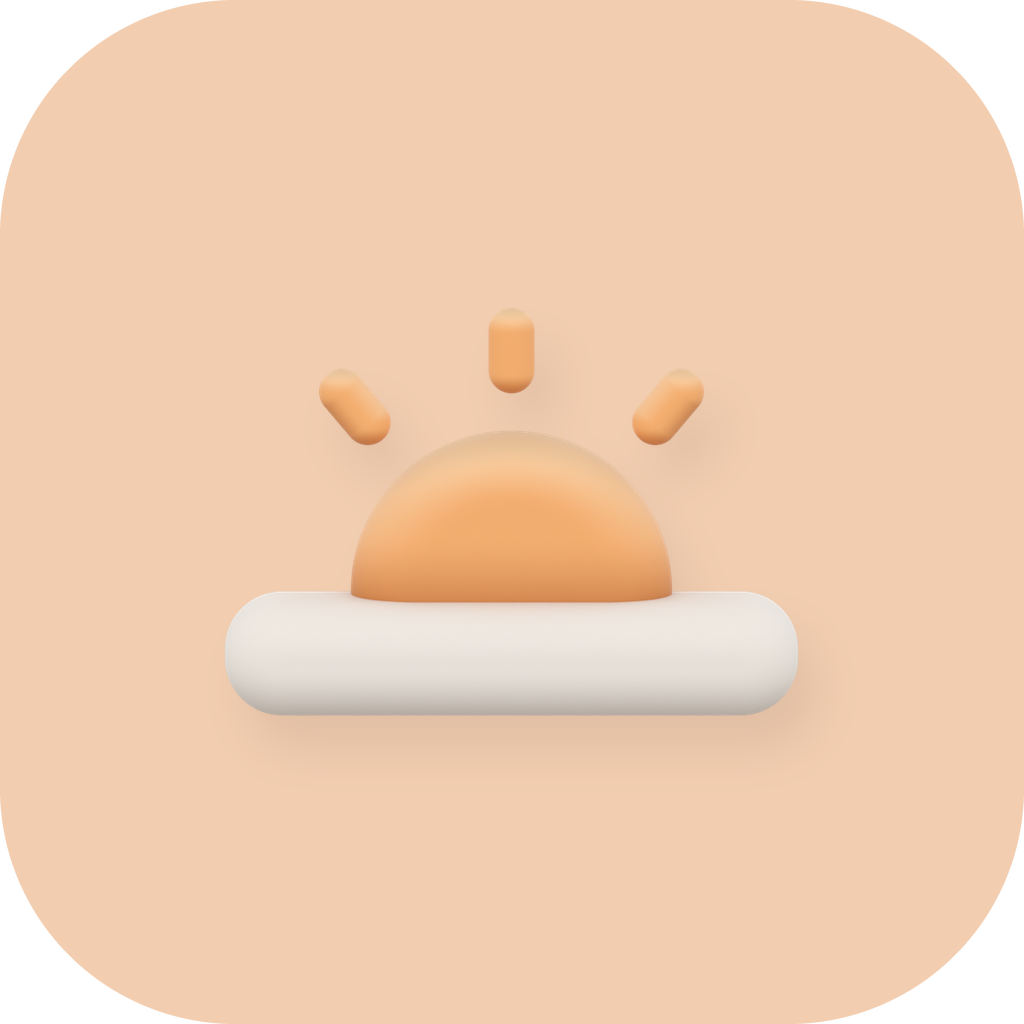
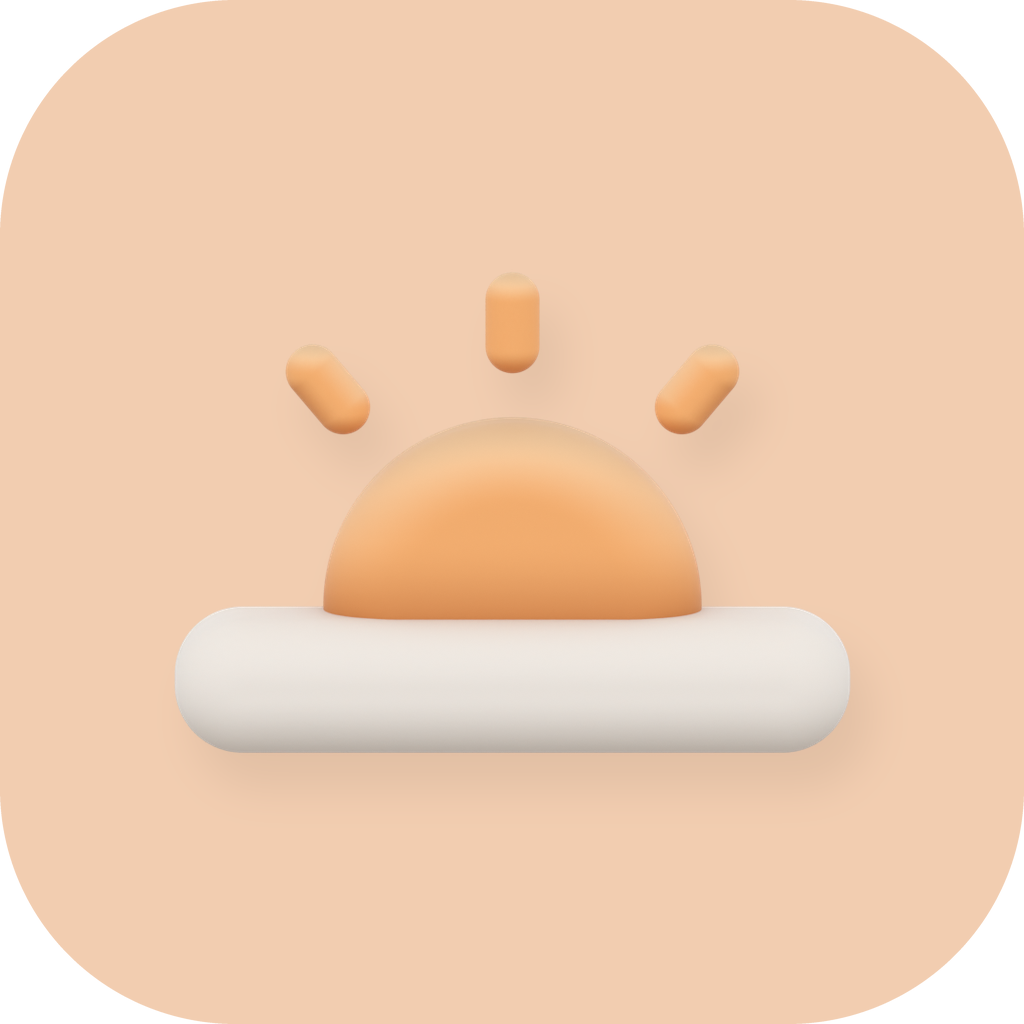
Cloud intro round 20b: panel footer stays visible, values line wraps cleanly

diff --git a/intro-storyboards/cloud/index.html b/intro-storyboards/cloud/index.html
@@ -58,13 +58,14 @@ body{overflow-x:hidden}
   .prow{margin-top:4px;}
   .prow input{height:24px;}
   .prow .rs{width:28px;height:28px;}
-  .pbtns{margin-top:8px;}
+  .pfoot{position:sticky;bottom:0;background:var(--page);padding-top:8px;}
+  .pfoot .pbtns{margin-top:0;}
 }
 @supports (height:100dvh){ @media (min-width: 820px){
   .col{grid-template-columns:min(430px, calc((100dvh - 96px) * 390 / 844)) clamp(340px, 30vw, 420px);}
 } }
 .pline{margin-top:8px;padding:8px;border:1px solid var(--btnline);border-radius:8px;background:var(--btn);
-  font-family:ui-monospace,Menlo,monospace;font-size:11px;word-break:break-all;user-select:all;-webkit-user-select:all}
+  font-family:ui-monospace,Menlo,monospace;font-size:11px;overflow-wrap:anywhere;user-select:all;-webkit-user-select:all}
 </style>
 
 <div class="wrap">
@@ -88,11 +89,13 @@ body{overflow-x:hidden}
     <details class="panel" id="panel" open>
       <summary>Regler</summary>
       <div id="prows"></div>
+      <div class="pfoot">
       <div class="pbtns">
         <button class="btn" id="pReset">Alle zur&uuml;cksetzen</button>
         <button class="btn" id="pCopy">Werte kopieren</button>
       </div>
       <div class="pline" id="pLine">alles Standard</div>
+      </div>
     </details>
     </div>
   </div>
@@ -1097,7 +1100,7 @@ window.addEventListener('resize', resize);
 
 // ---------------------------------------------------------------- playback + controls
 var cur = 0, playing = false, t0wall = 0, raf = 0, resumeOnShow = false;
-// slow motion: the clock advances by wall time × speed (render, seek and the time display stay in film time)
+// slow motion: the clock advances by wall time x speed (render, seek and the time display stay in film time)
 var SPEEDS = [1, 0.5, 0.25, 0.1], speedK = 0, speed = 1, curAnchor = 0, speedBtn = document.getElementById('speed');
 function anchor(){ t0wall = performance.now(); curAnchor = cur; }
 var playBtn = document.getElementById('play'), playIcon = document.getElementById('playIcon'),
@@ -1154,8 +1157,8 @@ function pLine(){
 function pShow(){
   PDEF.forEach(function(d){
     var k = d[0], txt = P[k].toFixed(pDec(d[4]));
-    if (k === 'riseAcc' && Math.abs(RC.accEff - P.riseAcc) > 0.005) txt += ' (→' + RC.accEff.toFixed(2) + ')';
-    if (k === 'riseVmax' && Math.abs(RC.vEff - P.riseVmax) > 0.005) txt += ' (→' + RC.vEff.toFixed(2) + ')';
+    if (k === 'riseAcc' && Math.abs(RC.accEff - P.riseAcc) > 0.005) txt += ' (\u2192' + RC.accEff.toFixed(2) + ')';
+    if (k === 'riseVmax' && Math.abs(RC.vEff - P.riseVmax) > 0.005) txt += ' (\u2192' + RC.vEff.toFixed(2) + ')';
     if (pVals[k]) pVals[k].textContent = txt;
     if (pInputs[k] && parseFloat(pInputs[k].value) !== P[k]) pInputs[k].value = String(P[k]);
   });
@@ -1182,7 +1185,7 @@ function setParams(obj){
     var val = document.createElement('span'); val.className = 'val';
     var inp = document.createElement('input'); inp.type = 'range'; inp.id = 'p_' + d[0];
     inp.min = String(d[2]); inp.max = String(d[3]); inp.step = String(d[4]); inp.value = String(d[5]);
-    var rs = document.createElement('button'); rs.className = 'btn rs'; rs.textContent = '↺'; rs.setAttribute('aria-label', d[1] + ' zurücksetzen');
+    var rs = document.createElement('button'); rs.className = 'btn rs'; rs.textContent = '\u21ba'; rs.setAttribute('aria-label', d[1] + ' zur\u00fccksetzen');
     inp.addEventListener('input', function(){ P[d[0]] = parseFloat(inp.value); pApply(); });
     rs.addEventListener('click', function(){ P[d[0]] = d[5]; pApply(); });
     row.appendChild(lab); row.appendChild(val); row.appendChild(rs); row.appendChild(inp); box.appendChild(row);

diff --git a/icon-lab/blender/clay_theme.py b/icon-lab/blender/clay_theme.py
@@ -231,7 +231,7 @@ REFERENCE = {
         "tile": "#BFC4EF", "tile_b": "#F2CDB0",
         "cream": {"lit": "#F3EEE8", "mid": "#E3DED8", "shadow": "#C2BAB1"},  # horizon slab
         "sun": {"lit": "#FFD3A0", "mid": "#F5B06C", "shadow": "#D88E4C"},    # apricot sun + rays
-        "tile_icon_width": 0.56,                 # bounding width / tile width
+        "tile_icon_width": 0.66,                 # bounding width / tile width (0.56 read too small)
     },
     "noon": {
         "tile": "#BFC4EF", "tile_b": "#F1E2B3",
@@ -241,7 +241,7 @@ REFERENCE = {
     "evening": {
         "tile": "#BFC4EF", "tile_b": "#CFC8EC",
         "moon": {"lit": "#F8EBC2", "mid": "#EAD290", "shadow": "#C9AF6A"},   # butter moon + star
-        "tile_icon_width": 0.672,                # camera frames the height: 0.56 x 718 / 598 px -> bounding width 0.56
+        "tile_icon_width": 0.58,                 # camera frames the height: moon height 0.58 of the tile
     },
 }
 

diff --git a/intro-storyboards/script-cloud.md b/intro-storyboards/script-cloud.md
@@ -350,3 +350,4 @@ One wish after the verdict: the rising stars accelerate slowly and hold a slow s
 - Claude's decision for the rise: each star's start and arrival on the line stay fixed, so more acceleration and speed means it gets going sooner and faster and then nestles longer into the line. Nothing waits on the line; the rain is untouched.
 - Limits found while building: top speed below today's is not possible with a smooth start and landing (values under 1 do nothing); very high top speed without more acceleration is capped (shown in the label). Lines cannot get thicker in the browser, so "thickness" of outbound packages changes their glint and brightness, and of inbound ones the head and trail but not the hair line. "Aufstieg ab" late (towards 6.5) makes some stars dash up in 0.35 s, because their arrival stays fixed. The elongated head is built from overlapping points; how it reads is unchecked.
 - Next: Alex sends his values, Claude makes them the defaults and removes sliders that are settled.
+- **Round 20 (21 Nov 2026):** at his wish the panel sits to the right of the film from 820 px window width, so nothing scrolls; on a phone it stays below. A second Opus agent reviewed it on screenshots at six window sizes and found that on short windows the buttons and the values line scrolled out of view; fixed, they now stick to the bottom of the panel.
